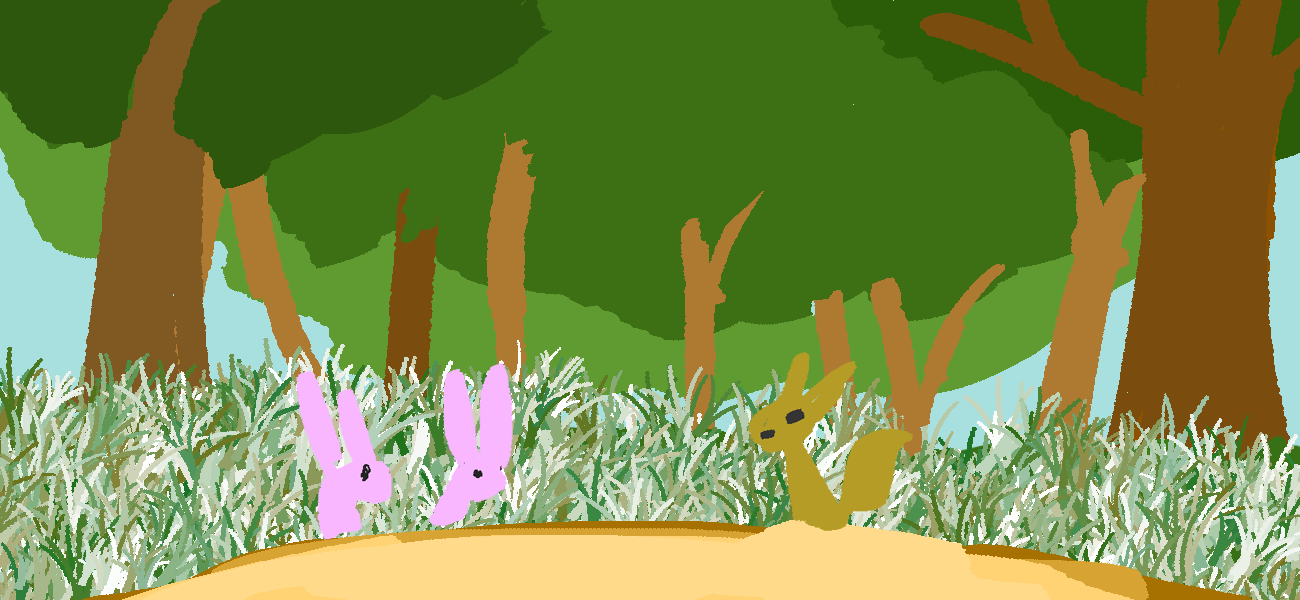
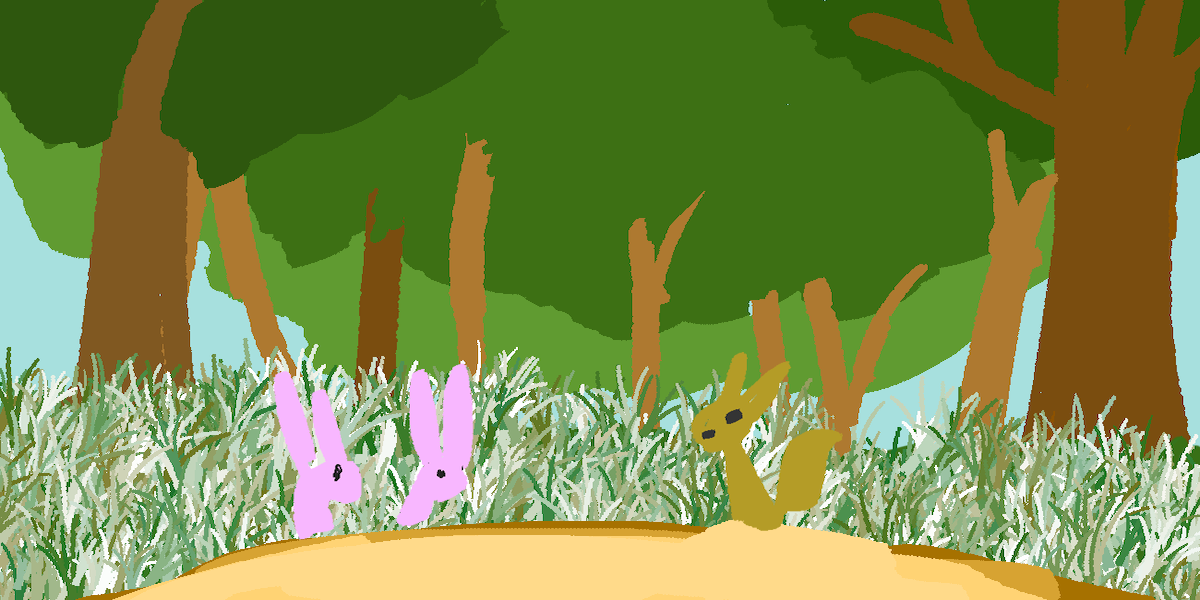
レイアウト変更、画像サイズを統一した

diff --git a/workintroduction.html b/workintroduction.html
@@ -49,26 +49,67 @@
 			</nav>
 		</header>
 		<main>
-			<div class="content">
-				<h1 class="top-subtitle">作品一覧</h1>
-				<div id="2020">
-					<h1>2020年作成</h1>
-						<a href="smash.html"><img src="image/smash_tool.png" style = "height: 400px;"></a>
+			<div class="content" id="2020">
+				<h1>2020年作成</h1>
+					<a href="smash.html"><img src="image/smash_tool.png" style = "height: 300px;"></a>
+				<div class="text-angle">
+					<p>
+						大乱闘スマッシュブラザーズ勝敗ツール<br>
+						大乱闘スマッシュブラザーズの勝敗を計測するツールです。<br>
+					</p>
 				</div>
-				<div id="2019">
-					<h1>2019年作成</h1>
-						<a href="block_game.html"><img src="image/Block_Game.png" style="height: 400px;"></a>
-						<a href="ukemi.html"><img src="image/ukemi4.jpg" style = "height: 400px;"></a>
-						<a href="profile.html"><img src="image/2019_game.pdf" style = "height: 400px;"></a>
+			</div>
+			
+			<div class="content" id="2019">
+				<h1>2019年作成</h1>
+					<a href="block_game.html"><img src="image/Block_Game.png" style="height: 300px;"></a>
+				<div class="text-angle">
+					<p>
+						ブロック崩しゲーム<br>
+						普段使っているunity以外で初めて作成したゲームです。<br>
+					</p>
 				</div>
-				<div id="2018">
-					<h1>2018年作成</h1>
-						<a href="silentcave.html"><img src="image/SilentCave.png" style = "height: 400px;"></a>
+				<h2></h2>
+					<a href="ukemi.html"><img src="image/ukemi4.jpg" style = "height: 300px;"></a>
+				<div class="text-angle">
+					<p>
+						受身マスター<br>
+						TGSに向けて作成したゲームです。<br>
+						高所から投げられるので受身ポイントでうまく受身を行なっていきます。<br>
+					</p>
 				</div>
-				<div id="2017">
-					<h1>2017年作成</h1>
-						<a href="abareru.html"><img src="image/abareru.png" style = "height: 400px;"></a>
+				<h3></h3>
+					<a href="profile.html"><img src="image/2019_game.pdf" style = "height: 300px;"></a>
+				<div class="text-angle">
+					<p>
+						財宝部屋の罠<br>
+						上から落ちてくるブロックをかわし、頂上を目指します。<br>
+					</p>
 				</div>
+			</div>
+			
+			<div class="content" id="2018">
+				<h1>2018年作成</h1>
+					<a href="silentcave.html"><img src="image/SilentCave.png" style = "height: 300px;"></a>
+				<div class="text-angle">
+					<p>
+						Silent Cave<br>
+						TGSに向けて作成したゲームです。<br>
+						敵を倒しながらダンジョンを探索していきます。<br>
+					</p>
+				</div>
+			</div>
+			
+			<div class="content" id="2017">
+				<h1>2017年作成</h1>
+					<a href="abareru.html"><img src="image/abareru.png" style = "height: 300px;"></a>
+				<div class="text-angle">
+					<p>
+						どうぶつあばれるくん<br>
+						ゲームジャムという企画で初めて作成したゲームです。<br>
+					</p>
+				</div>
+			</div>
 		</main>
 	</body>
 	

diff --git a/css/portfolio.css b/css/portfolio.css
@@ -55,9 +55,20 @@ body p{
   font-family: "游ゴシック","メイリオ","ヒラギノ角ゴシック";
 }
 
-.content{
+.content{ 
+  padding: 70px;
 }
 
+.text-angle{
+  text-align: left;
+  float: right;
+  padding: 10px;
+}
+
+.text-box{
+  border: 1px solid #cccccc;
+  padding: 10px;
+}
 .top-video{
   width: 55vw;
   margin: -16px calc(-50vw + 50%) 0px calc(-50vw + 50%);
@@ -92,29 +103,11 @@ body p{
   }
 /*ここまで*/
 
-#jikishinkai-feature{
-  padding: 5px;
-
-}
-
-#jikishinkai-feature-text{
-  display: inline-block;
-  width: 50%;
-  margin: 30px;
-  display: inline-block;
-}
-
-#jikishinkai-feature-image{
-  display: inline-block;
-
-}
-
 .content-index-main{
   margin: 10px 30px;
   flex-direction: row-reverse;
   justify-content: space-between;
 }
-
 
 .footer{
     height: 70px;
@@ -125,11 +118,6 @@ body p{
 .article-title{
   font-size: 30px;
   margin-top: 30px;
-}
-
-.nagaoyosuke{
-  width: 800px;
-  height: 300px;
 }
 
 .top-bigfont{

diff --git a/program.html b/program.html
@@ -26,14 +26,15 @@
 		</header>
 	
 		<main>
-			<h1 class="article-title">このページについて</h1>
-				<div class="content">
+			<div class="content">
+				<h1 class="article-title">このページについて</h1>
 				<p>
 					今まで作ったプログラムを公開しています。<br>
 					実際に動いているところを見ることができます。
 				</p>
 			</div>
 			
+			<script></script>
 			
 		</main>
 	</body>
